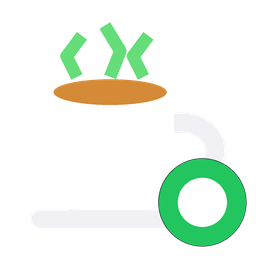
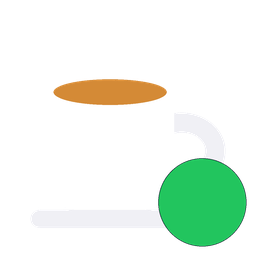
fix: update steam color to white, solid green badge, and add taskbar restart resilience

Changed region(s): [[0.6875, 0.6875, 0.9062, 0.9062], [0.375, 0.0938, 0.5938, 0.3125], [0.2188, 0.125, 0.3438, 0.3125]]

diff --git a/src/main.rs b/src/main.rs
@@ -2,7 +2,7 @@
 
 use std::sync::{Mutex, OnceLock};
 use windows::core::{w, PCWSTR};
-use windows::Win32::Foundation::{HINSTANCE, HWND, LPARAM, LRESULT, POINT, WPARAM};
+use windows::Win32::Foundation::{CloseHandle, HINSTANCE, HWND, LPARAM, LRESULT, POINT, WPARAM};
 use windows::Win32::System::LibraryLoader::GetModuleHandleW;
 use windows::Win32::System::Power::{
     SetThreadExecutionState, ES_CONTINUOUS, ES_DISPLAY_REQUIRED, ES_SYSTEM_REQUIRED,
@@ -23,9 +23,9 @@ use windows::Win32::UI::Shell::{
 use windows::Win32::UI::WindowsAndMessaging::{
     AppendMenuW, CreatePopupMenu, CreateWindowExW, DefWindowProcW, DestroyMenu, DestroyWindow,
     DispatchMessageW, GetCursorPos, GetMessageW, LoadIconW, PostMessageW, PostQuitMessage,
-    RegisterClassW, SetForegroundWindow, SetTimer, TrackPopupMenuEx, TranslateMessage,
-    CS_HREDRAW, CS_VREDRAW, HICON, HMENU, MF_CHECKED, MF_DISABLED, MF_GRAYED, MF_SEPARATOR,
-    MF_STRING, MF_UNCHECKED, MSG, TPM_BOTTOMALIGN, TPM_LEFTALIGN, TPM_RIGHTBUTTON,
+    RegisterClassW, RegisterWindowMessageW, SetForegroundWindow, SetTimer, TrackPopupMenuEx,
+    TranslateMessage, CS_HREDRAW, CS_VREDRAW, HICON, HMENU, MF_CHECKED, MF_DISABLED, MF_GRAYED,
+    MF_SEPARATOR, MF_STRING, MF_UNCHECKED, MSG, TPM_BOTTOMALIGN, TPM_LEFTALIGN, TPM_RIGHTBUTTON,
     WINDOW_EX_STYLE, WM_COMMAND, WM_CREATE, WM_DESTROY, WM_LBUTTONDBLCLK, WM_LBUTTONUP,
     WM_NULL, WM_RBUTTONUP, WM_TIMER, WM_USER, WNDCLASSW, WS_OVERLAPPEDWINDOW,
 };
@@ -52,6 +52,7 @@ unsafe impl Send for AppState {}
 unsafe impl Sync for AppState {}
 
 static STATE: OnceLock<Mutex<AppState>> = OnceLock::new();
+static WM_TASKBARCREATED: OnceLock<u32> = OnceLock::new();
 
 fn send_f15_key() {
     let inputs = [
@@ -187,7 +188,7 @@ fn update_tray_visuals(active: bool) {
     }
 }
 
-fn toggle_active() {
+fn toggle_active(hwnd: HWND) {
     let current_state = if let Some(state_lock) = STATE.get() {
         if let Ok(state) = state_lock.lock() {
             state.active
@@ -202,6 +203,10 @@ fn toggle_active() {
     apply_execution_state(new_state);
     if new_state {
         send_f15_key();
+        unsafe {
+            // Reset timer so the next interval starts fresh 30 seconds from now
+            SetTimer(hwnd, TIMER_KEEP_AWAKE, KEEP_AWAKE_INTERVAL_MS, None);
+        }
     }
     update_tray_visuals(new_state);
 }
@@ -273,7 +278,7 @@ unsafe extern "system" fn wndproc(
             match event {
                 WM_LBUTTONUP | WM_LBUTTONDBLCLK => {
                     // Left-click / double-click toggles active status
-                    toggle_active();
+                    toggle_active(hwnd);
                 }
                 WM_RBUTTONUP => {
                     // Context Menu
@@ -328,7 +333,7 @@ unsafe extern "system" fn wndproc(
             let cmd_id = (wparam.0 & 0xFFFF) as usize;
             match cmd_id {
                 ID_TRAY_TOGGLE => {
-                    toggle_active();
+                    toggle_active(hwnd);
                 }
                 ID_TRAY_AUTOSTART => {
                     let currently_enabled = is_autostart_registered();
@@ -356,7 +361,20 @@ unsafe extern "system" fn wndproc(
             LRESULT(0)
         }
 
-        _ => DefWindowProcW(hwnd, msg, wparam, lparam),
+        _ => {
+            // Re-add tray icon if Windows Explorer / Taskbar restarted
+            if let Some(&taskbar_msg) = WM_TASKBARCREATED.get() {
+                if taskbar_msg != 0 && msg == taskbar_msg {
+                    if let Some(state_lock) = STATE.get() {
+                        if let Ok(state) = state_lock.lock() {
+                            let _ = Shell_NotifyIconW(NIM_ADD, &state.nid);
+                        }
+                    }
+                    return LRESULT(0);
+                }
+            }
+            DefWindowProcW(hwnd, msg, wparam, lparam)
+        }
     }
 }
 
@@ -365,9 +383,20 @@ fn main() {
         // Prevent running multiple instances
         let mutex_name = w!("Local\\TeamsCaffeine_SingleInstance_Mutex");
         let mutex = CreateMutexW(None, true, mutex_name);
-        if mutex.is_err() || windows::Win32::Foundation::GetLastError() == windows::Win32::Foundation::ERROR_ALREADY_EXISTS {
-            return;
-        }
+        let mutex_handle = match mutex {
+            Ok(h) => {
+                if windows::Win32::Foundation::GetLastError() == windows::Win32::Foundation::ERROR_ALREADY_EXISTS {
+                    let _ = CloseHandle(h);
+                    return;
+                }
+                h
+            }
+            Err(_) => return,
+        };
+
+        // Register TaskbarCreated message to survive Explorer restarts
+        let taskbar_msg = RegisterWindowMessageW(w!("TaskbarCreated"));
+        let _ = WM_TASKBARCREATED.set(taskbar_msg);
 
         let hinstance = HINSTANCE(GetModuleHandleW(None).unwrap_or_default().0);
         let class_name = w!("TeamsCaffeineTrayClass");
@@ -398,6 +427,7 @@ fn main() {
         );
 
         if hwnd.is_err() {
+            let _ = CloseHandle(mutex_handle);
             return;
         }
 
@@ -406,5 +436,7 @@ fn main() {
             let _ = TranslateMessage(&msg);
             DispatchMessageW(&msg);
         }
+
+        let _ = CloseHandle(mutex_handle);
     }
 }

diff --git a/generate_icons.py b/generate_icons.py
@@ -16,9 +16,9 @@ def draw_caffeine_icon(size: int, active: bool = True) -> Image.Image:
     if active:
         cup_color = (255, 255, 255, 245)
         coffee_color = (212, 138, 54, 255)       # warm espresso/coffee
-        steam_color = (76, 217, 100, 220)        # green steam / energy indicator (Teams Green)
-        badge_bg = (34, 197, 94, 255)            # glowing green active badge
-        badge_border = (15, 23, 42, 255)
+        steam_color = (255, 255, 255, 220)        # authentic white steam
+        badge_bg = (34, 197, 94, 255)            # solid vibrant Teams green badge
+        badge_border = (15, 23, 42, 255)         # dark high-contrast border
         rim_color = (240, 240, 245, 255)
     else:
         cup_color = (160, 160, 170, 200)
@@ -64,7 +64,7 @@ def draw_caffeine_icon(size: int, active: bool = True) -> Image.Image:
     rim_h = int(dim * 0.10)
     draw.ellipse([cup_left + inner_pad, cup_top - rim_h // 2, cup_right - inner_pad, cup_top + rim_h // 2], fill=coffee_color)
 
-    # Steam / Aroma lines (if active)
+    # Steam / Aroma lines (if active, in clean white)
     if active:
         steam_w = max(int(dim * 0.05), 2)
         # Left steam curve
@@ -91,7 +91,7 @@ def draw_caffeine_icon(size: int, active: bool = True) -> Image.Image:
         ]
         draw.line(steam3_pts, fill=steam_color, width=steam_w, joint="curve")
 
-    # Status Indicator Badge (Bottom right or top right)
+    # Status Indicator Badge (Bottom right)
     badge_size = int(dim * 0.34)
     bx2 = int(dim * 0.96)
     by2 = int(dim * 0.96)
@@ -100,15 +100,11 @@ def draw_caffeine_icon(size: int, active: bool = True) -> Image.Image:
     
     # Outer dark border to pop against tray dark/light backgrounds
     draw.ellipse([bx1 - 2, by1 - 2, bx2 + 2, by2 + 2], fill=badge_border)
+    # Solid circle: Solid Teams Green when active, Solid Gray when paused
     draw.ellipse([bx1, by1, bx2, by2], fill=badge_bg)
 
-    # Inner symbol on badge: checkmark / dot if active, pause bars if paused
-    if active:
-        # Green status dot / lightning or inner bright dot
-        inner_m = int(badge_size * 0.22)
-        draw.ellipse([bx1 + inner_m, by1 + inner_m, bx2 - inner_m, by2 - inner_m], fill=(255, 255, 255, 240))
-    else:
-        # Pause bars ||
+    # When paused, draw white pause bars || on top of the gray badge
+    if not active:
         bar_w = max(int(badge_size * 0.14), 2)
         bar_h = int(badge_size * 0.48)
         bar_y1 = by1 + int((badge_size - bar_h) / 2)
@@ -134,7 +130,7 @@ def main():
         sizes=[(s, s) for s in sizes],
         append_images=active_images[1:]
     )
-    print("Generated assets/icon.ico")
+    print("Generated assets/icon.ico (White steam, solid green status dot)")
 
     # Generate paused icon
     paused_images = [draw_caffeine_icon(s, active=False) for s in sizes]

diff --git a/README.md b/README.md
@@ -38,7 +38,7 @@ leave an open PowerShell window, consume ~50–80 MB of RAM, and can be terminat
 
 - **🚀 Ultra Lightweight**: Standalone ~280 KB native executable, no heavy frameworks, no Electron, no WebView.
 - **☕ Visual Tray Feedback**:
-  - **Active State**: Colorful coffee mug with steam and bright green indicator dot.
+  - **Active State**: Colorful coffee mug with clean white steam and a solid green indicator badge.
   - **Paused State**: Dimmed grayscale coffee mug with pause icon.
 - **⚡ Instant Toggle**: Left-click or double-click the tray icon to quickly toggle between **Active** and **Paused**.
 - **📋 Context Menu (Right-Click)**:
